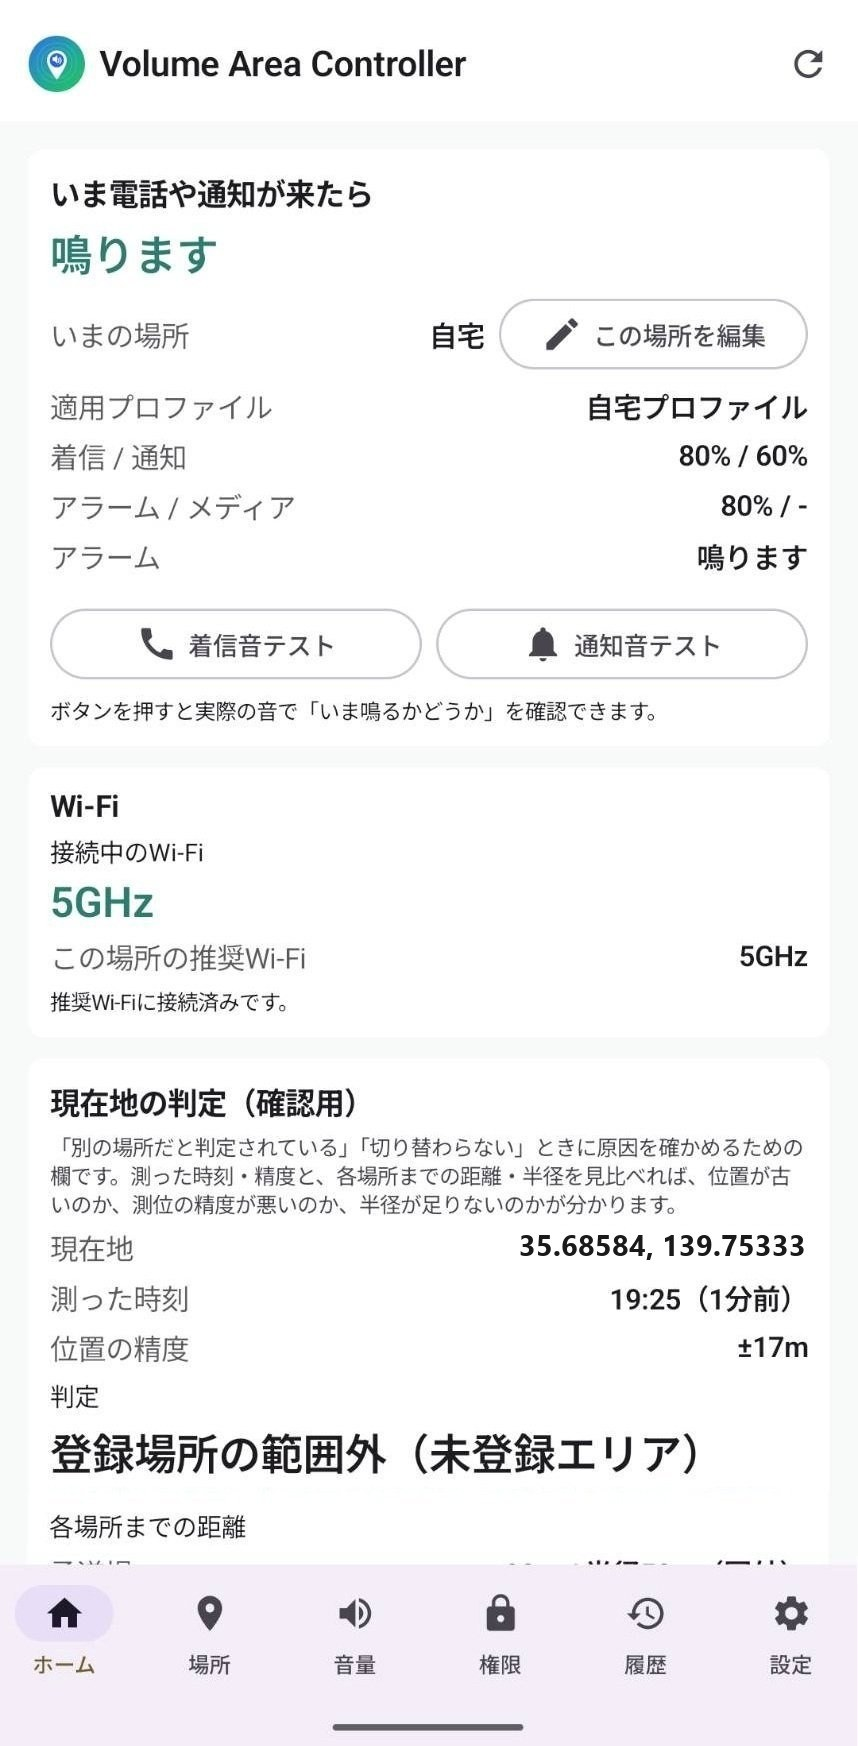
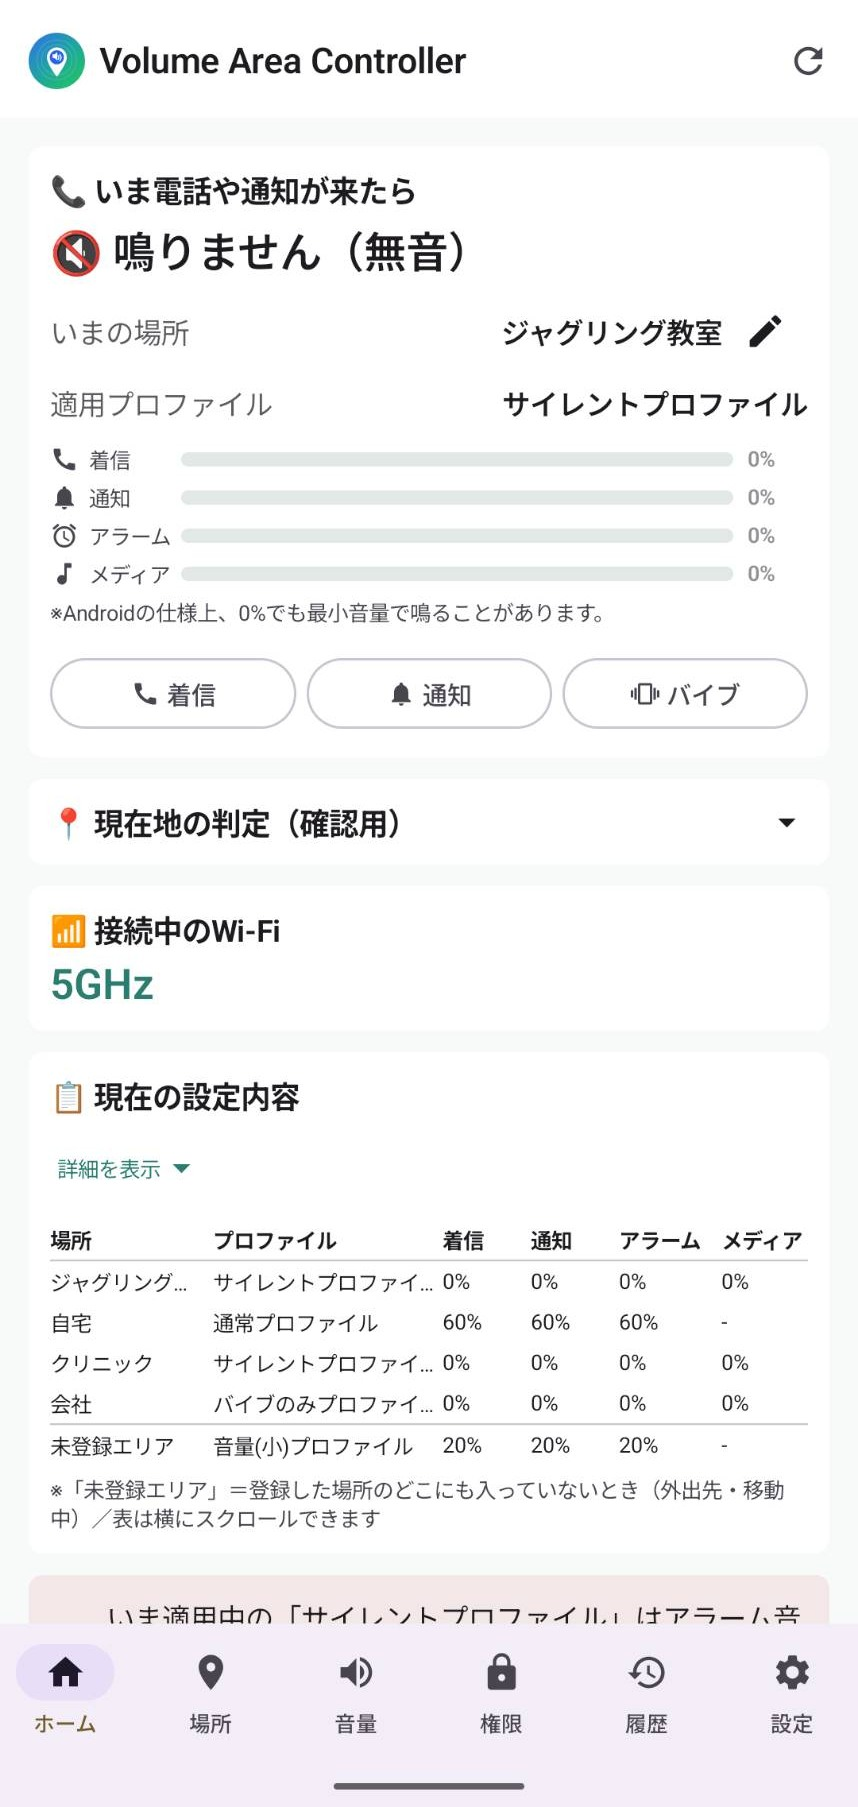
VolumeACのスクリーンショットを最新UIに差し替え、配布メッセージを調整
ホーム・場所タブのスクリーンショットを最新版の画面に更新。
Google Play配布も予定しているため、ダウンロードページの
「Google Playではなく直接配布」という文言を削除。

diff --git a/volumeac/download/index.html b/volumeac/download/index.html
@@ -43,7 +43,7 @@
   </header>
 
   <p>
-    本アプリは Google Play ではなく、このサイトから直接配布しています（無料）。最新版をダウンロードしてインストールしてください。対象は Android 10 以降です。
+    最新版をダウンロードしてインストールしてください（無料）。対象は Android 10 以降です。
   </p>
 
   <h2>最新版</h2>
